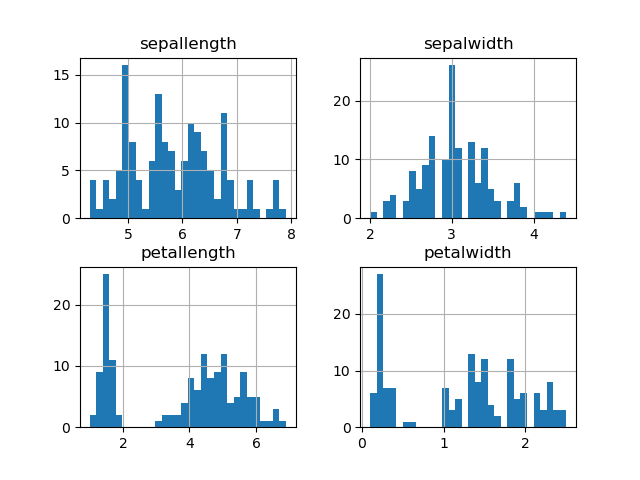
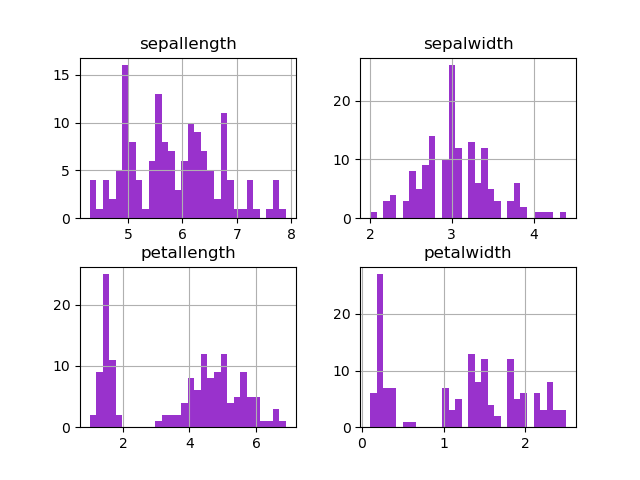
output to file, species analysis

diff --git a/pands-project2021/analysis.py b/pands-project2021/analysis.py
@@ -11,6 +11,7 @@ import matplotlib.pyplot as plt
 import numpy as np
 import pandas as pd
 import seaborn as sns
+import os
 
 # Load csv
 iris = pd.read_csv("iris.csv") 
@@ -53,16 +54,103 @@ virginicapetalwidth = virginica["petalwidth"]
 # Full print of dataframe. Comment out when not needed
 #print(iris)
 
+# Creating of text file to append
+# Open in write mode to overwrite anything that was there before
+# Opening a temporary file which will be cleaned for a new file and then later deleted
+f = open("iristemp.txt", "w")
+f.write("Iris Dataset Variable Analysis\n\n*******************************")
+f.close()
 
 # Mean, median, min, max, first and third quartile of all quantitative variables
-irismean = iris.mean()
+# Mean and stdev are rounded to be more in line with the other results
+irismean = iris.mean().round(2)
 irismedian = iris.median()
 irismin = iris.min()
 irismax = iris.max()
 iris25 = iris.quantile(q = 0.25)
 iris75 = iris.quantile(q = 0.75)
-irisstdev = iris.std()
+irisstdev = iris.std().round(2)
 
+setosamean = setosa.mean().round(2)
+setosamedian = setosa.median()
+setosamin = setosa.min()
+setosamax = setosa.max()
+setosa25 = setosa.quantile(q = 0.25)
+setosa75 = setosa.quantile(q = 0.75)
+setosastdev = setosa.std().round(2)
+
+versicolormean = versicolor.mean().round(2)
+versicolormedian = versicolor.median()
+versicolormin = versicolor.min()
+versicolormax = versicolor.max()
+versicolor25 = versicolor.quantile(q = 0.25)
+versicolor75 = versicolor.quantile(q = 0.75)
+versicolorstdev = versicolor.std().round(2)
+
+virginicamean = virginica.mean().round(2)
+virginicamedian = virginica.median()
+virginicamin = virginica.min()
+virginicamax = virginica.max()
+virginica25 = virginica.quantile(q = 0.25)
+virginica75 = virginica.quantile(q = 0.75)
+virginicastdev = virginica.std().round(2)
+
+
+# Using with open and opening the file in append mode so as not to overwrite what is was already written
+with open("iristemp.txt", "a") as f:
+
+# Printout out of analysis of full dataset with titles and line spaces
+# Removing separators with sep = '' to remove space at start of printout
+    print("\nFull Iris Dataset", file = f)
+    print("\nVariable Means\n", irismean, sep = '',file = f)
+    print("\nVariable Medians\n", irismedian, sep = '', file = f)
+    print("\nVariable Min\n", irismin, sep = '', file = f)
+    print("\nVariable Max\n", irismax, sep = '', file = f)
+    print("\nVariable First Quartiles\n", iris25, sep = '', file = f)
+    print("\nVariable Third Quartiles\n", iris75, sep = '', file = f)
+    print("\nVariable Standard Deviation\n", irisstdev, sep = '', file = f)
+
+# Printout of same analysis but just on Setosa Species
+
+    print("\n\n*******************************\nSetosa Dataset", file = f)
+    print("\nVariable Means\n", setosamean, sep = '',file = f)
+    print("\nVariable Medians\n", setosamedian, sep = '', file = f)
+    print("\nVariable Min\n", setosamin, sep = '', file = f)
+    print("\nVariable Max\n", setosamax, sep = '', file = f)
+    print("\nVariable First Quartiles\n", setosa25, sep = '', file = f)
+    print("\nVariable Third Quartiles\n", setosa75, sep = '', file = f)
+    print("\nVariable Standard Deviation\n", setosastdev, sep = '', file = f)
+    
+# Printout of same analysis but just on Versicolor Species
+
+    print("\n\n*******************************\nVersicolor Dataset", file = f)
+    print("\nVariable Means\n", versicolormean, sep = '',file = f)
+    print("\nVariable Medians\n", versicolormedian, sep = '', file = f)
+    print("\nVariable Min\n", versicolormin, sep = '', file = f)
+    print("\nVariable Max\n", versicolormax, sep = '', file = f)
+    print("\nVariable First Quartiles\n", versicolor25, sep = '', file = f)
+    print("\nVariable Third Quartiles\n", versicolor75, sep = '', file = f)
+    print("\nVariable Standard Deviation\n", versicolorstdev, sep = '', file = f)
+
+# Printout of same analysis but just on Virginica Species
+
+    print("\n\n*******************************\nVirginica Dataset", file = f)
+    print("\nVariable Means\n", virginicamean, sep = '',file = f)
+    print("\nVariable Medians\n", virginicamedian, sep = '', file = f)
+    print("\nVariable Min\n", virginicamin, sep = '', file = f)
+    print("\nVariable Max\n", virginicamax, sep = '', file = f)
+    print("\nVariable First Quartiles\n", virginica25, sep = '', file = f)
+    print("\nVariable Third Quartiles\n", virginica75, sep = '', file = f)
+    print("\nVariable Standard Deviation\n", virginicastdev, sep = '', file = f)
+
+with open("iristemp.txt", "r") as f:
+    lines = f.readlines()
+
+with open("iris.txt", "w") as f:
+    for line in lines:
+        if "dtype" not in line:
+            f.write(line)
+os.remove("iristemp.txt")
 
 # Printout analysis with descriptions for readability
 print("mean\n", irismean)
@@ -103,7 +191,7 @@ print("virginica mean\n", virginicamean)
 # Individual Pearsons correlations, commented out as numpy corr function shows correlation for multiple variables
 #pearsons = np.corrcoef(petalwidth,petallength)
 #print(pearsons)
-
+"""
 
 # Assigning functions for correlation of full dataset as well as by class
 iriscorr = iris.corr()
@@ -118,7 +206,9 @@ print("Versicolor Correlation\n", versicorr, "\n")
 print("Virginica Correlation\n", virginicacorr, "\n")
 
 # Simple histograph of all quantitative variables
-iris.hist(bins = 30)
+# Using bins = 30 to give a more detailed view (default is 10)
+# Colored to be similar to color of iris, colors can be found at https://matplotlib.org/2.0.2/examples/color/named_colors.html
+iris.hist(bins = 30, color = 'darkorchid')
 plt.savefig("Variable Histogram")
 plt.show()
 
@@ -249,7 +339,7 @@ plt.legend([sswsl, vsswsl, vgswsl],["Iris Setosa", "Iris Versicolor", "Iris Virg
 plt.savefig("Scatter Sepal Width vs Sepal Length")
 plt.show()
 
-
+"""
 """
 # Assigning a variable to represent colours for each class to use in plots if needed
 # This is needed in single pyplot scatter graphs (below) but is not for Seaborne scatter plots
@@ -271,7 +361,7 @@ plt.title("Petal Length vs Petal Width")
 plt.xlabel("Petal Length")
 plt.ylabel("Petal Width")
 plt.show()
-"""
+
 
 
 # Seaborn pairplot, containing scatter plots of all variable relationships as well as class distribution of individual variables
@@ -283,3 +373,4 @@ plt.suptitle("Iris Pairplot - Scatter and Distribution", y = 1)
 plt.savefig("Pairplot - Scatter Plots and Distribution Plots")
 plt.show()
 
+"""
